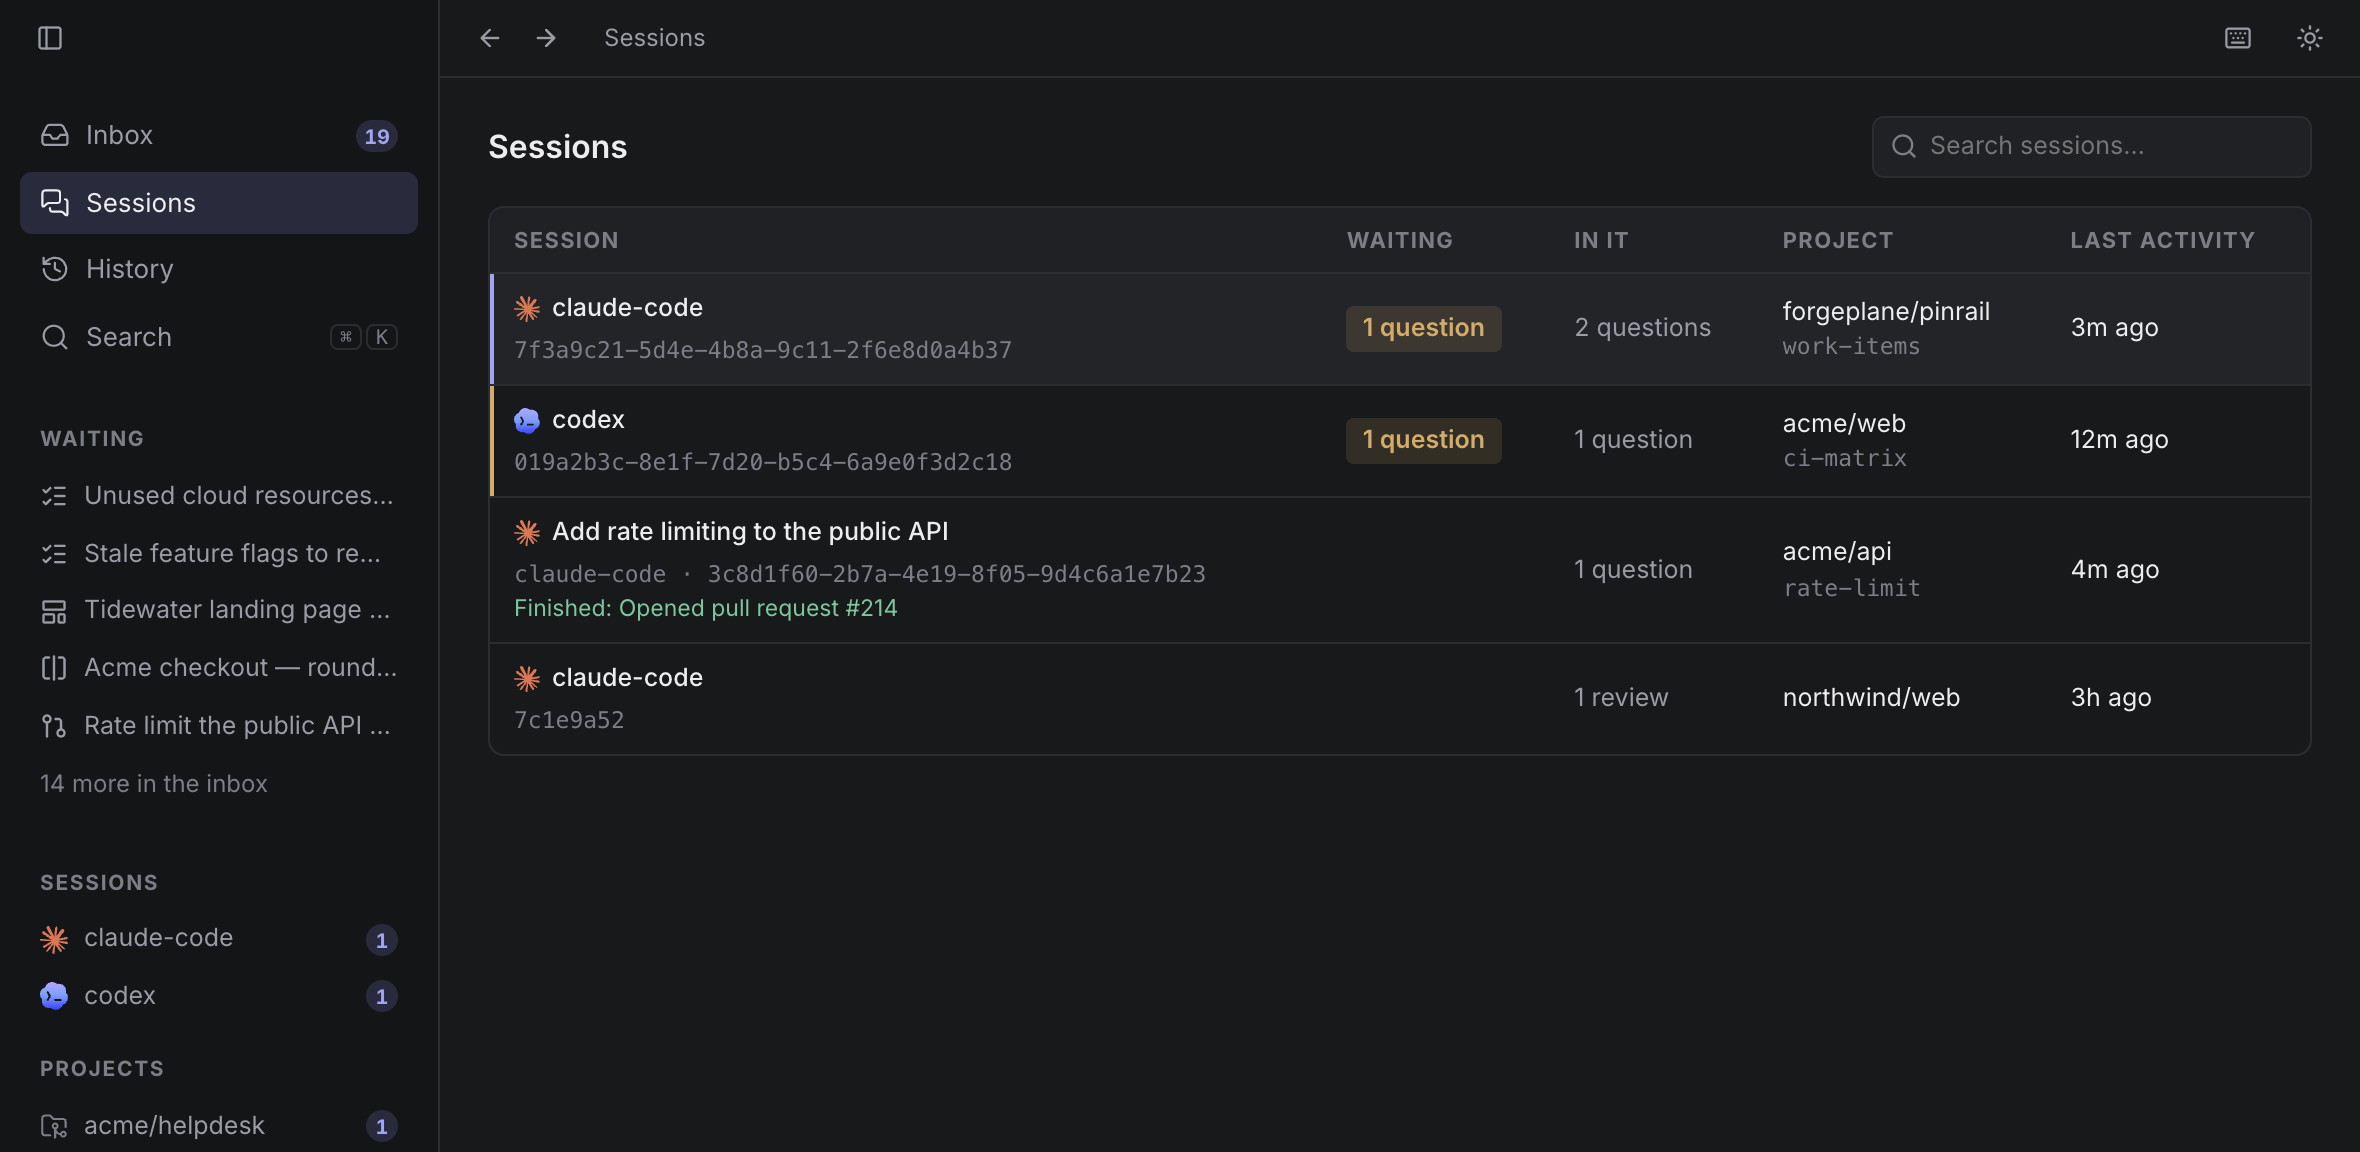
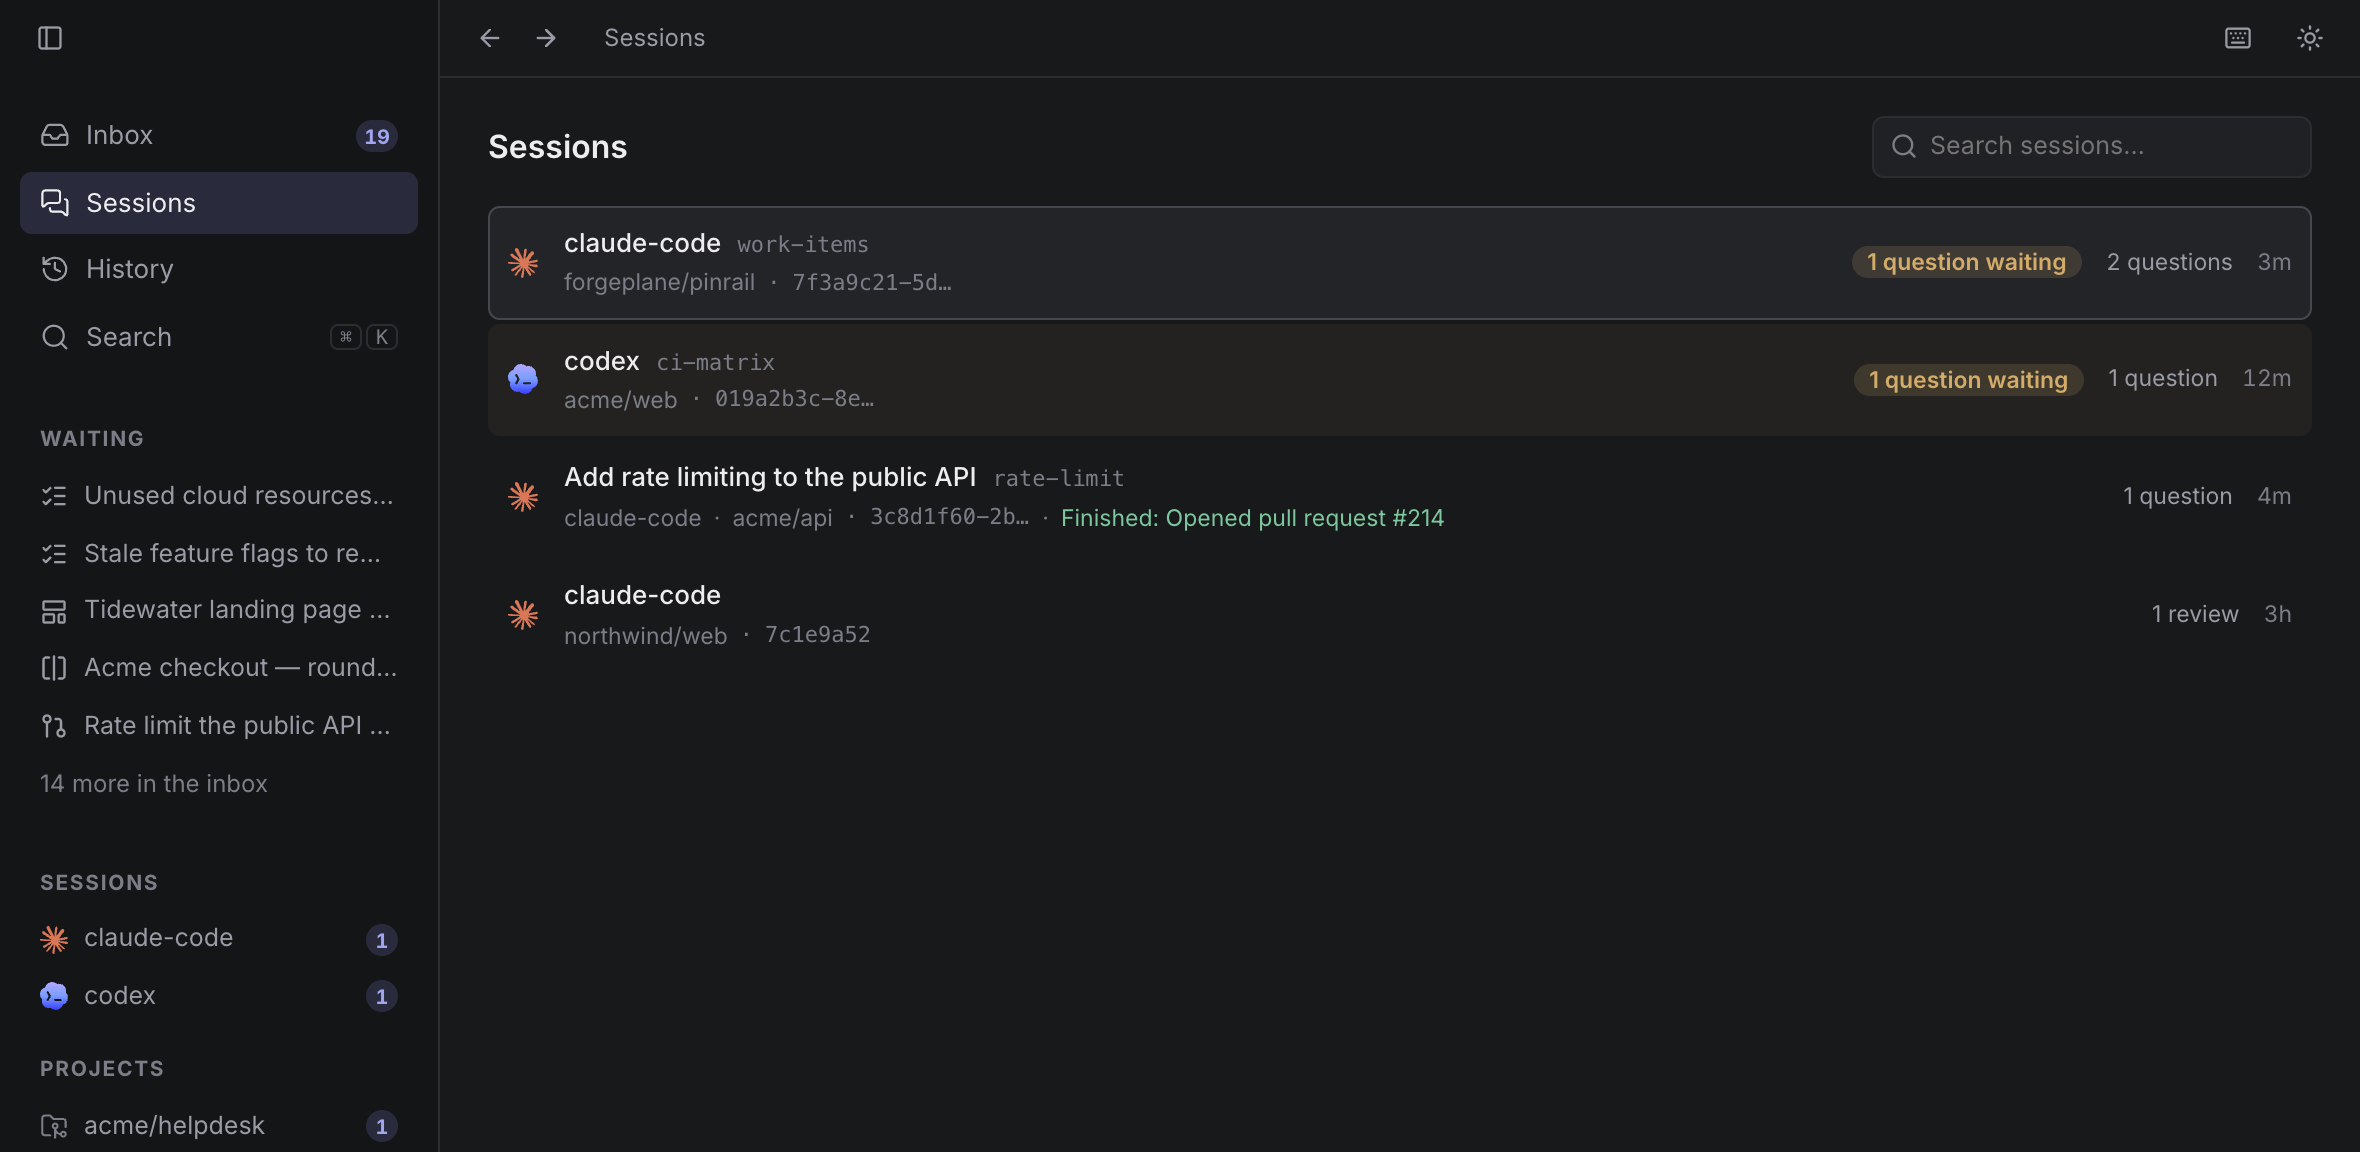
Show the sessions as rows like the inbox
Assisted-by: Claude Code (Claude Opus 5.5)

diff --git a/desktop/app/ui/src/screens/Sessions.tsx b/desktop/app/ui/src/screens/Sessions.tsx
@@ -201,60 +201,55 @@ export function Sessions() {
               : "Each agent session that asks you a question or sends a review appears here, with everything it sent."}
           </EmptyState>
         ) : (
-          <div className="history-table-wrap">
-            <table className="history-table sessions-table">
-              <thead>
-                <tr>
-                  <th>Session</th>
-                  <th>Waiting</th>
-                  <th className="sessions-col-total">In it</th>
-                  <th className="history-col-repo">Project</th>
-                  <th className="history-col-recorded">Last activity</th>
-                </tr>
-              </thead>
-              <tbody>
-                {sessions.map((s, i) => {
-                  const waiting = s.waiting.questions + s.waiting.reviews;
-                  return (
-                    <tr
-                      key={`${s.agent}/${s.id}`}
-                      className={`${i === focused ? "is-focused" : ""} ${waiting ? "is-waiting" : ""} ${keyOf(s) === openKey ? "is-open" : ""}`}
-                      data-testid="session-row"
-                      onMouseEnter={() => setFocused(i)}
-                      onClick={(event) => {
-                        if (!(event.target as Element).closest("a")) open(s);
-                      }}
-                    >
-                      <td>
-                        <Link to={hrefFor(s)} className="history-title with-icon" onClick={(e) => openFromLink(e, s)}>
-                          <AgentIcon requestedBy={s.agent} size={13} /> {s.title ?? s.agent}
-                        </Link>
-                        <small className="mono" title={s.id}>
-                          {s.title ? `${s.agent} · ${s.id}` : s.id}
-                        </small>
-                        {s.status && !(s.status.kind === "start" && s.title) ? (
-                          <small
-                            className={`session-status ${s.status.kind === "done" ? "is-done" : ""}`}
+          <>
+            <div className="inbox-list">
+              {sessions.map((s, i) => {
+                const waiting = s.waiting.questions + s.waiting.reviews;
+                // the newest status, unless it is the start that titles the session
+                const status = s.status && !(s.status.kind === "start" && s.title) ? s.status : null;
+                return (
+                  <Link
+                    key={keyOf(s)}
+                    to={hrefFor(s)}
+                    onClick={(event) => openFromLink(event, s)}
+                    className={`review-row session-row ${waiting ? "is-waiting" : ""} ${i === focused ? "is-focused" : ""} ${keyOf(s) === openKey ? "is-open" : ""}`}
+                    aria-current={keyOf(s) === openKey ? "true" : undefined}
+                    onMouseEnter={() => setFocused(i)}
+                    data-testid="session-row"
+                  >
+                    <AgentIcon requestedBy={s.agent} size={15} />
+                    <span className="review-row-main">
+                      <span className="review-row-title">
+                        {s.title ?? s.agent}
+                        {s.ref ? <span className="review-row-ref">{s.ref}</span> : null}
+                      </span>
+                      <span className="review-row-meta">
+                        {s.title ? <span>{s.agent}</span> : null}
+                        {s.repo ? <span className="review-row-project">{s.repo}</span> : null}
+                        <span className="session-row-id mono" title={s.id}>
+                          {s.id}
+                        </span>
+                        {status ? (
+                          <span
+                            className={`session-status ${status.kind === "done" ? "is-done" : ""}`}
                             data-testid="session-status"
                           >
-                            {statusLine(s.status)}
-                          </small>
+                            {statusLine(status)}
+                          </span>
                         ) : null}
-                      </td>
-                      <td>{waiting ? <span className="thread-waiting">{contents(s.waiting)}</span> : null}</td>
-                      <td className="dim sessions-col-total">{contents(s.total)}</td>
-                      <td className="history-col-repo">
-                        {s.repo}
-                        {s.ref ? <small className="mono">{s.ref}</small> : null}
-                      </td>
-                      <td className="history-col-recorded" title={stamp(s.last_at)}>
-                        {age(s.last_at)} ago
-                      </td>
-                    </tr>
-                  );
-                })}
-              </tbody>
-            </table>
+                      </span>
+                    </span>
+                    <span className="session-row-waiting">
+                      {waiting ? <span className="asks-chip">{contents(s.waiting)} waiting</span> : null}
+                    </span>
+                    <span className="session-row-total">{contents(s.total)}</span>
+                    <time className="review-row-time" dateTime={s.last_at} title={stamp(s.last_at)}>
+                      {age(s.last_at)}
+                    </time>
+                  </Link>
+                );
+              })}
+            </div>
             <Pager
               page={page}
               size={size}
@@ -266,7 +261,7 @@ export function Sessions() {
               }}
               onSize={(n) => setParam("per", String(n))}
             />
-          </div>
+          </>
         )}
       </div>
       {opened ? (

diff --git a/e2e/shell/questions.spec.ts b/e2e/shell/questions.spec.ts
@@ -197,7 +197,7 @@ test("the Sessions page lists the sessions, those waiting first, and opens a ses
   await page.getByRole("navigation", { name: "Main" }).getByRole("link", { name: "Sessions" }).click();
   const rows = page.getByTestId("session-row");
   await expect(rows.first()).toContainText(waiting);
-  await expect(rows.first()).toContainText("1 question");
+  await expect(rows.first()).toContainText("1 question waiting");
   await expect(rows.filter({ hasText: answered })).toContainText("1 question");
 
   await page.getByRole("searchbox", { name: "Search sessions" }).fill(answered);
@@ -474,7 +474,7 @@ test("the statuses an agent reports show in its thread between the questions and
   // the Sessions page shows the newest status
   await page.goto("/#/sessions");
   const row = page.getByTestId("session-row").filter({ hasText: session });
-  await expect(row.getByRole("link", { name: "Add rate limiting" })).toBeVisible();
+  await expect(row.locator(".review-row-title")).toContainText("Add rate limiting");
   await expect(row.getByTestId("session-status")).toHaveText("Finished: Pushed the fix");
   await expect(page.getByRole("region", { name: "Sessions waiting" })).toContainText("Add rate limiting");
 });
@@ -583,7 +583,7 @@ test("a session opens in the side panel beside the Sessions page", async ({ page
   await expect(sessionRow(second)).toHaveClass(/is-open/);
   await expect(page).toHaveURL(/\/sessions\?open=claude-code%2F/);
   // beside the panel, the list hides what the session holds, and keeps its id on one line
-  await expect(page.getByRole("columnheader", { name: "In it" })).toBeHidden();
+  await expect(sessionRow(second).locator(".session-row-total")).toBeHidden();
   const id = sessionRow(second).getByTitle(second);
   const line = await id.evaluate((el) => parseFloat(getComputedStyle(el).lineHeight));
   expect((await id.boundingBox())!.height).toBeLessThan(line * 1.5);
@@ -611,6 +611,6 @@ test("a session opens in the side panel beside the Sessions page", async ({ page
   // with reviews opening on their own page, so do sessions
   await openReviewsIn(page.request, "page");
   await page.reload();
-  await sessionRow(first).getByRole("link").first().click();
+  await sessionRow(first).click();
   await expect(page).toHaveURL(new RegExp(`/sessions/claude-code/${first}$`));
 });

diff --git a/desktop/app/ui/src/theme.css b/desktop/app/ui/src/theme.css
@@ -3596,31 +3596,51 @@ body.is-resizing iframe {
   margin: 0;
   font-size: 12.5px;
 }
-/* the sessions: those with something waiting for the person are marked at
-   their start, as a pending review is in the inbox */
-.sessions-table tr.is-waiting td:first-child {
-  box-shadow: inset 2px 0 0 var(--sev-major);
+/* the sessions, as rows like the inbox's: the agent's icon, the title with
+   the branch, the agent, project, id and newest status under it, then what
+   waits, what the session holds and its last activity. A session with
+   something waiting is tinted as a question is in the inbox */
+.session-row {
+  grid-template-columns: 16px 1fr auto auto auto;
 }
-.sessions-table .with-icon {
-  gap: 6px;
+.session-row.is-waiting:not(.is-open):not(.is-focused) {
+  background: color-mix(in srgb, var(--sev-major) 6%, transparent);
 }
-/* beside the side panel, the sessions show the session and what waits, the
-   session's id and status on one line each */
-@container (max-width: 640px) {
-  .sessions-col-total {
+/* the id and the status shorten before the rest of the line */
+.review-row-meta > .session-row-id {
+  flex: 0 1 auto;
+  min-width: 4ch;
+  max-width: 14ch;
+  overflow: hidden;
+  text-overflow: ellipsis;
+  font-size: 11px;
+}
+.review-row-meta > .session-status {
+  flex: 0 1 auto;
+  min-width: 0;
+  max-width: none;
+}
+/* the parts of the line, with dots between them that are not read out */
+.session-row .review-row-meta > * + *::before {
+  content: "·" / "";
+  margin-right: 6px;
+  color: var(--faint);
+}
+.session-row-total {
+  font-size: 11.5px;
+  color: var(--dim);
+  white-space: nowrap;
+}
+.session-row-waiting {
+  white-space: nowrap;
+}
+/* a narrow list, as beside the side panel, leaves out what a session holds */
+@container (max-width: 560px) {
+  .session-row {
+    grid-template-columns: 16px 1fr auto auto;
+  }
+  .session-row-total {
     display: none;
-  }
-  .sessions-table td:first-child {
-    max-width: 0;
-    width: 100%;
-  }
-  .sessions-table td:first-child small {
-    overflow: hidden;
-    text-overflow: ellipsis;
-    white-space: nowrap;
-  }
-  .sessions-table .thread-waiting {
-    white-space: nowrap;
   }
 }
 
